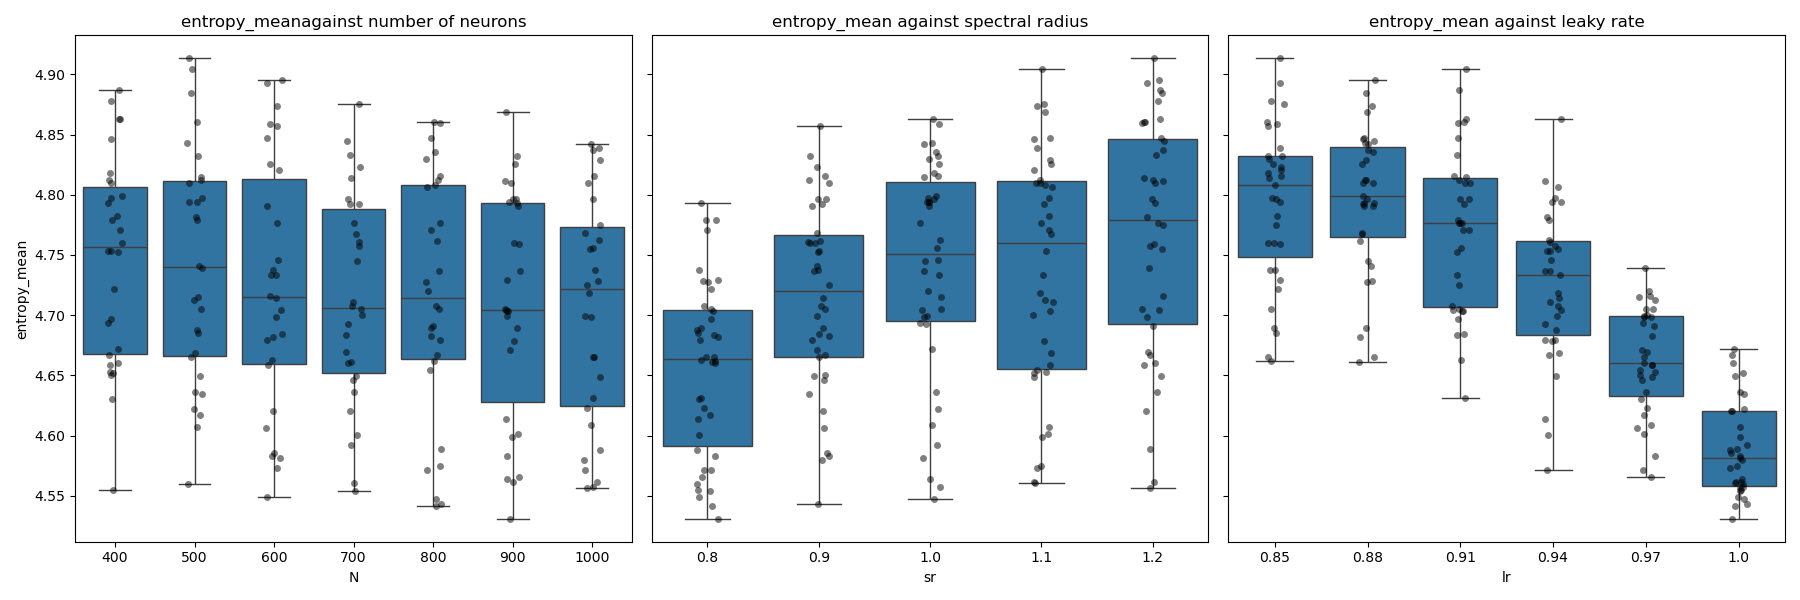
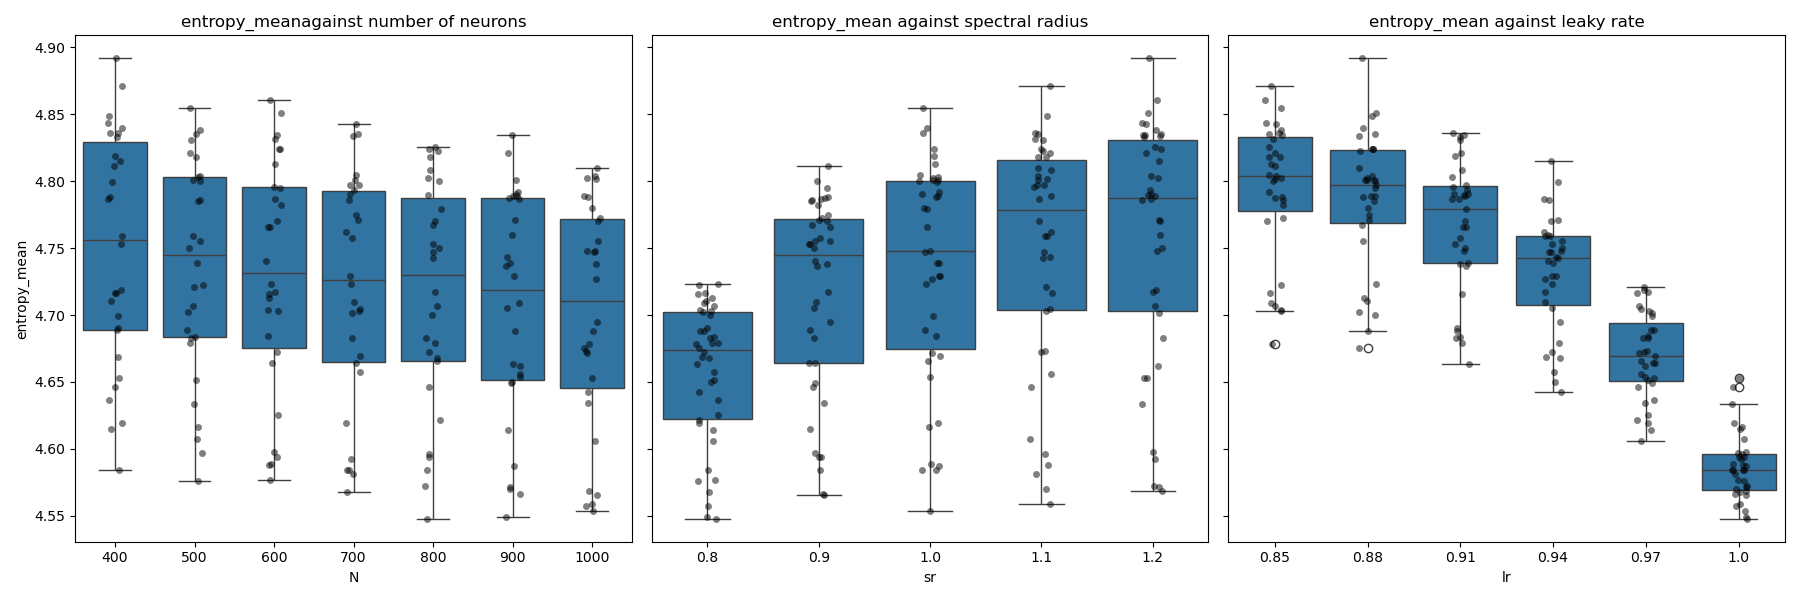
parameter search for IP

diff --git a/plot_parameters.py b/plot_parameters.py
@@ -7,27 +7,27 @@ from scipy.stats import spearmanr
 matplotlib.use("TkAgg")
 
 def plot_parameters_against_measure(measure):
-    # fig, axes = plt.subplots(1, 3, figsize=(18, 6), sharey=True)
-    #
-    # sns.boxplot(data=data, x="N",  y=measure, ax=axes[0])
-    # sns.stripplot(data=data, x="N",  y=measure, ax=axes[0], color="black", alpha=0.5, jitter=True)
-    # axes[0].set_title(f"{measure}against number of neurons")
-    #
-    # sns.boxplot(data=data, x="sr", y=measure, ax=axes[1])
-    # sns.stripplot(data=data, x="sr", y=measure, ax=axes[1], color="black", alpha=0.5, jitter=True)
-    # axes[1].set_title(f"{measure} against spectral radius")
-    #
-    # sns.boxplot(data=data, x="lr", y=measure, ax=axes[2])
-    # sns.stripplot(data=data, x="lr", y=measure, ax=axes[2], color="black", alpha=0.5, jitter=True)
-    # axes[2].set_title(f"{measure} against leaky rate")
-    #
-    # plt.tight_layout()
-    # plt.savefig(f"{measure}_vs_parameters")
-    # plt.show()
+    fig, axes = plt.subplots(1, 3, figsize=(18, 6), sharey=True)
 
-    sns.pairplot(data, x_vars=["N", "sr", "lr"], y_vars=measure, kind="reg", height=4)
-    plt.savefig(f"plots/{measure}_vs_parameters_v2")
+    sns.boxplot(data=data, x="N",  y=measure, ax=axes[0])
+    sns.stripplot(data=data, x="N",  y=measure, ax=axes[0], color="black", alpha=0.5, jitter=True)
+    axes[0].set_title(f"{measure}against number of neurons")
+
+    sns.boxplot(data=data, x="sr", y=measure, ax=axes[1])
+    sns.stripplot(data=data, x="sr", y=measure, ax=axes[1], color="black", alpha=0.5, jitter=True)
+    axes[1].set_title(f"{measure} against spectral radius")
+
+    sns.boxplot(data=data, x="lr", y=measure, ax=axes[2])
+    sns.stripplot(data=data, x="lr", y=measure, ax=axes[2], color="black", alpha=0.5, jitter=True)
+    axes[2].set_title(f"{measure} against leaky rate")
+
+    plt.tight_layout()
+    plt.savefig(f"plots/{measure}_vs_parameters")
     plt.show()
+
+    # sns.pairplot(data, x_vars=["N", "sr", "lr"], y_vars=measure, kind="reg", height=4)
+    # plt.savefig(f"plots/{measure}_vs_parameters_v2")
+    # plt.show()
 
 def plot_correlation(data, param1, param2, measure):
     x = data[param1] + np.random.normal(0, 0.04*data[param1].std(), size=len(data))  # jitter
@@ -56,11 +56,21 @@ def get_parameters_under_threshold(threshold):
     return params
 
 if __name__ == "__main__":
-    data = pd.read_csv("results_parameters_ip_10_iter.csv")
+    data = pd.read_csv("results_parameters_ip_100_iter.csv")
+    plot = False
 
-    measure = "entropy_std"
-    # plot_parameters_against_measure(measure)
-    # plot_correlation(data, "lr", "sr", "KL_mean")
+    if plot:
+        # Plot parameters vs means and stds
+        measures = {"KL_mean", "entropy_mean", "KL_std", "entropy_std"}
+        for measure in measures:
+            plot_parameters_against_measure(measure)
+
+        # Plot correlations between parameters
+        params = {"N", "lr", "sr"}
+        for param1 in params:
+            for param2 in params:
+                if param1 != param2:
+                    plot_correlation(data, param1, param2, "KL_mean")
 
     # best_params = get_n_best_parameters(50)
     best_params = get_parameters_under_threshold(0.1)
@@ -76,7 +86,8 @@ if __name__ == "__main__":
 
     # plt.figure(figsize=(8, 6))
     # plt.scatter(data['entropy_mean'], data['entropy_std'])
-    # plt.xlabel("Entropy mean")
-    # plt.ylabel("Entropy std")
-    # plt.title("Entropy mean vs entropy std")
+    # plt.xlabel("entropy_std mean")
+    # plt.ylabel("entropy_std std")
+    # plt.title("entropy_std mean vs entropy_std")
+    # plt.savefig("plots/entropy_mean_vs_entropy_std")
     # plt.show()
